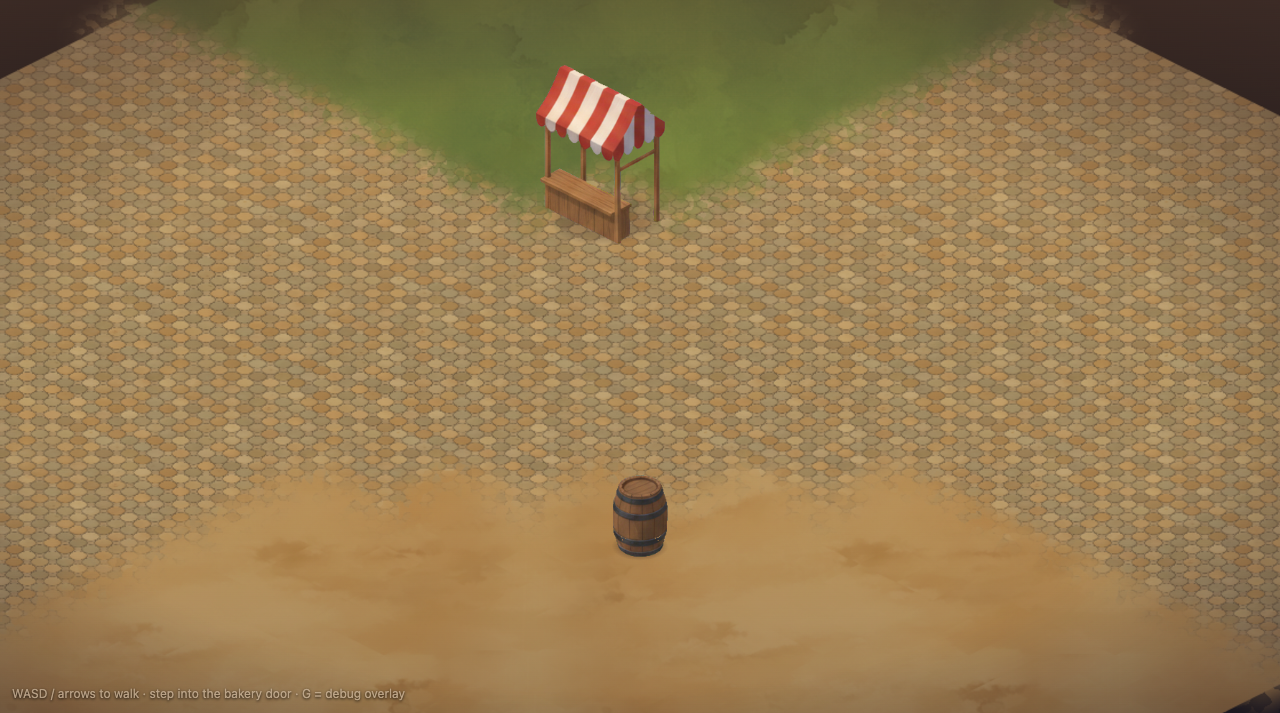
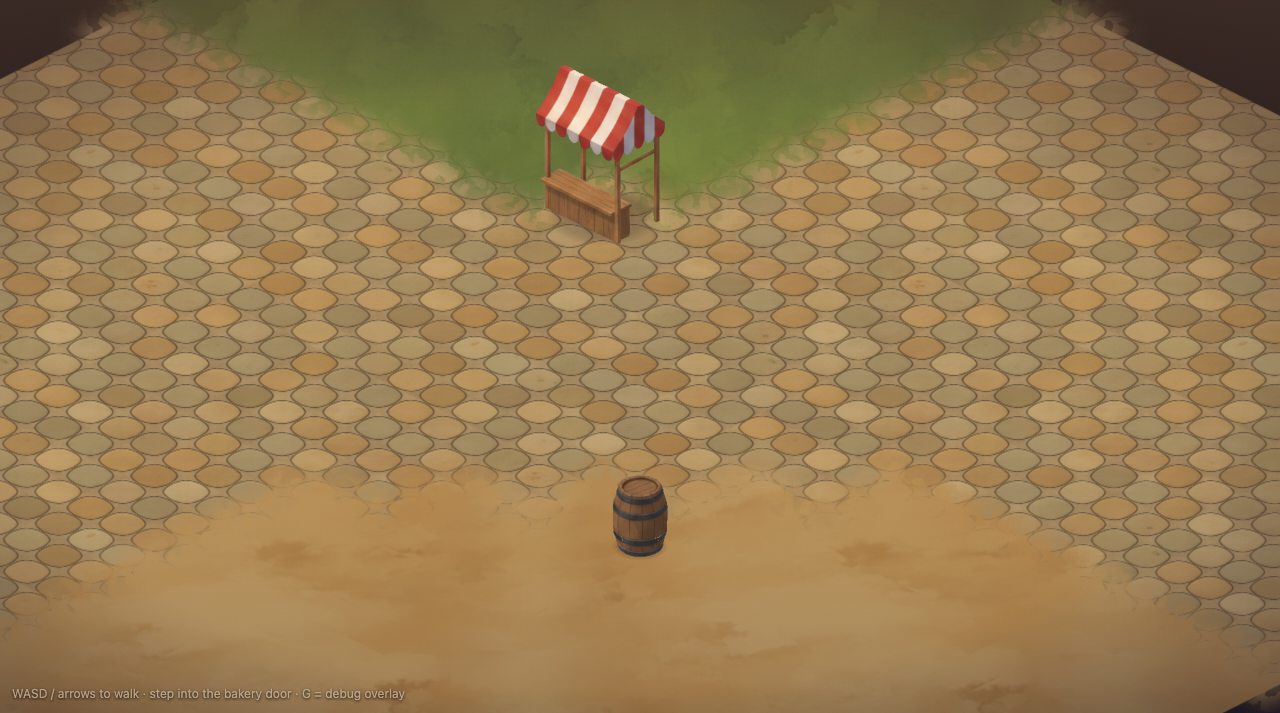
Cobble demo scale to honest stone size (orchestrator fix)
The candidate textures pack ~30 setts per tile; the demo patternScales
rendered them at ~10px chainmail through two rounds. dB 4.6→11.5,
dC 4.2→10.5 puts stones at ~25px honest scale; both rows re-captured.

diff --git a/public/js/iso/registry.js b/public/js/iso/registry.js
@@ -61,8 +61,8 @@ const GROUND = {
   // ~0.2 m sett (round-2 showed chainmail-tiny at ps 5). Not used by any live scene
   // — the live g-cobble-a/b scale is finalised when the director picks a cobble.
   'g-cobble-dA': { foot: [2, 2], kind: 'ground', walk: true, tex: 'tex-cobble', sampling: 'structured', patternScale: 8.0 },
-  'g-cobble-dB': { foot: [2, 2], kind: 'ground', walk: true, tex: 'tex-cobble', sampling: 'structured', patternScale: 4.6 },
-  'g-cobble-dC': { foot: [2, 2], kind: 'ground', walk: true, tex: 'tex-cobble', sampling: 'structured', patternScale: 4.2 },
+  'g-cobble-dB': { foot: [2, 2], kind: 'ground', walk: true, tex: 'tex-cobble', sampling: 'structured', patternScale: 11.5 },
+  'g-cobble-dC': { foot: [2, 2], kind: 'ground', walk: true, tex: 'tex-cobble', sampling: 'structured', patternScale: 10.5 },
   'g-dirt':     { foot: [2, 2], kind: 'ground', walk: true, tex: 'tex-dirt' },
   'g-grass':    { foot: [2, 2], kind: 'ground', walk: true, tex: 'tex-grass' },
   // Ch1 forest biome ground materials (new textures baked through the same path)
